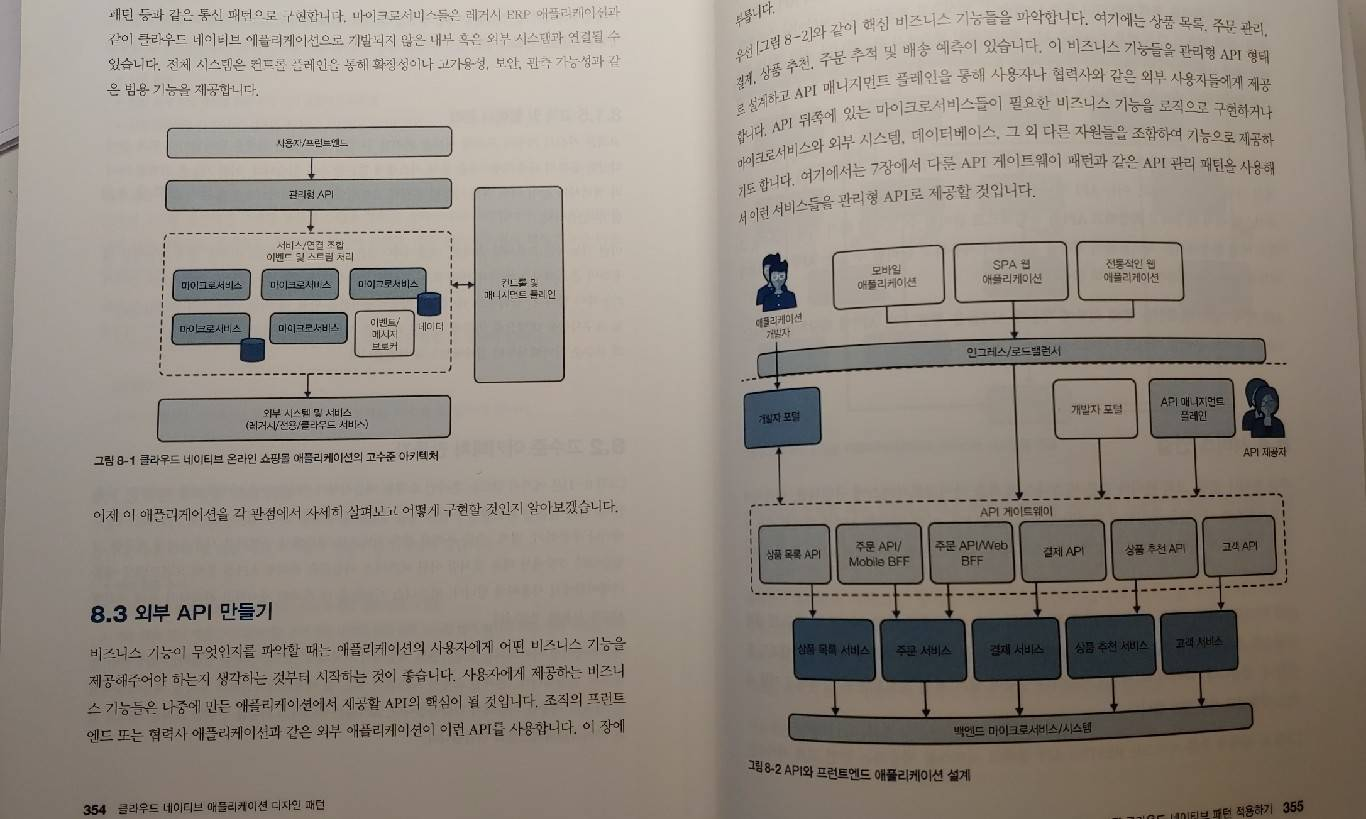
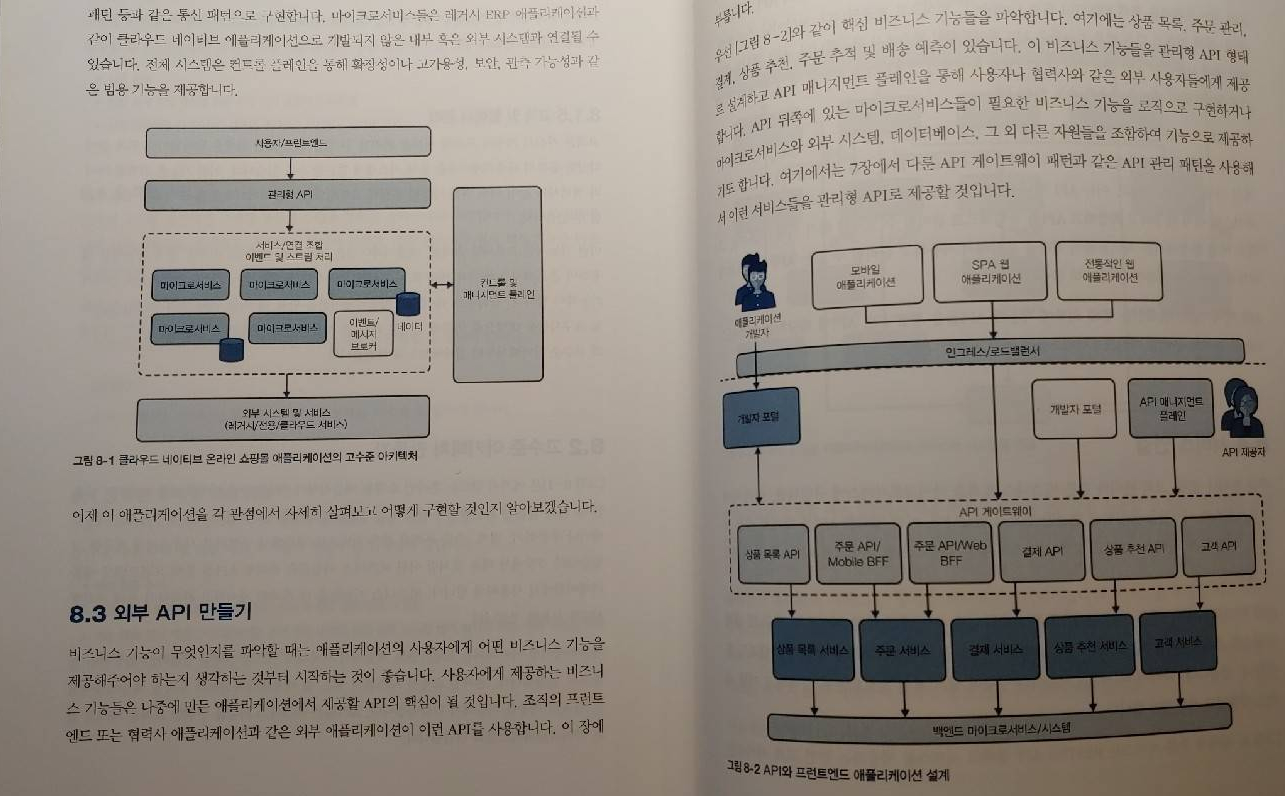
.

diff --git a/_posts/books/2022-07-22-클라우드 네이티브 애플리케이션 디자인 패턴.md b/_posts/books/2022-07-22-클라우드 네이티브 애플리케이션 디자인 패턴.md
@@ -34,8 +34,8 @@ tags: [book, ]
 그리고 마지막으로 소개한 패턴들을 정리하여 표로 제시하고 있다.  
 
 
-![](../../img/2022-07-22-클라우드%20네이티브%20애플리케이션%20디자인%20패턴/4.jpg){: width="400px"}  
-![](../../img/2022-07-22-클라우드%20네이티브%20애플리케이션%20디자인%20패턴/5.jpg){: width="400px"}  
+![](../../img/2022-07-22-클라우드%20네이티브%20애플리케이션%20디자인%20패턴/4.jpg)  
+![](../../img/2022-07-22-클라우드%20네이티브%20애플리케이션%20디자인%20패턴/5.jpg)  
 다양한 도식을 활용하여 각 각의 패턴들의 구성방식이나 프로세스의 흐름을 설명하고 있어서 이해하기 좋고 관련 패턴을 일목요연하게 비교할 수 있다는게 이 책의 가장 좋았던 점이다.  
 
 아쉬운 부분은 단순히 소개할 뿐 좀더 명확한 가이드는 제시하지 않는다는 것이다.    
